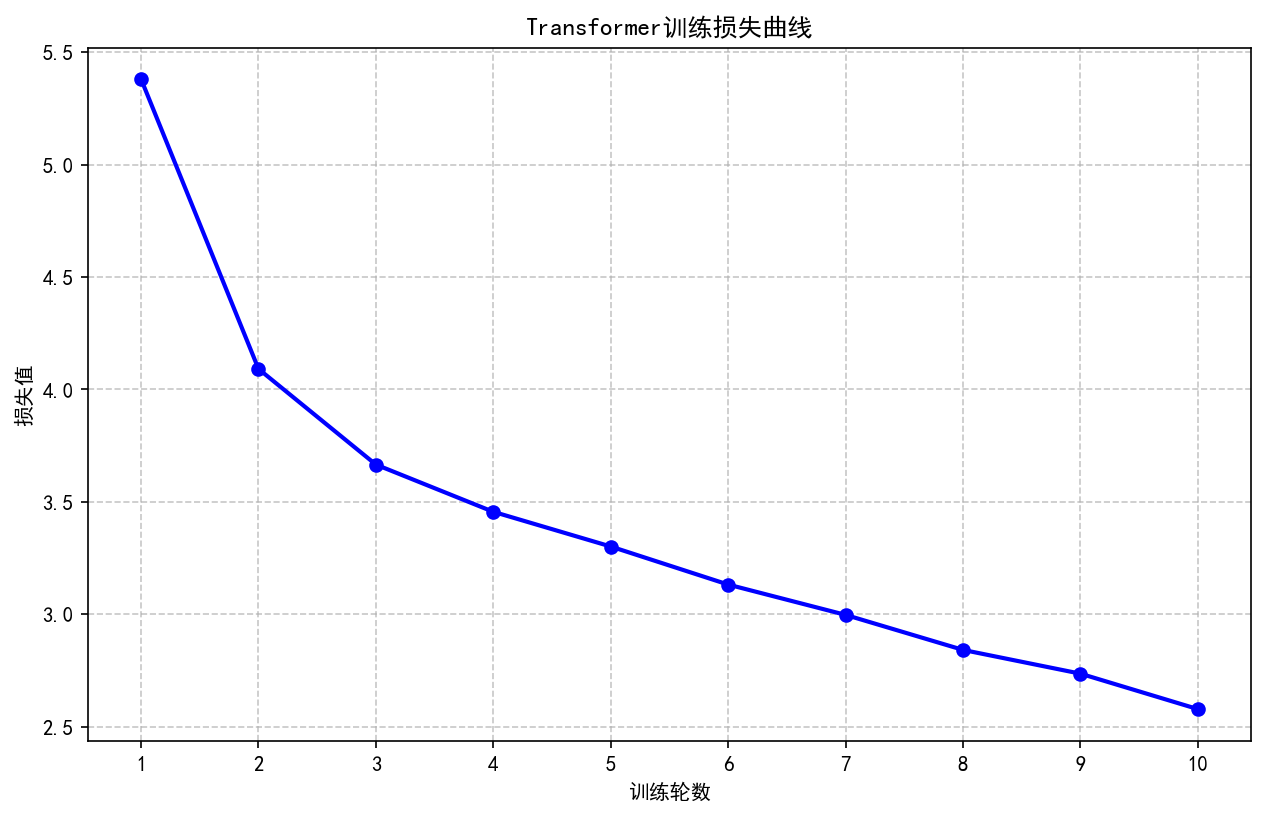
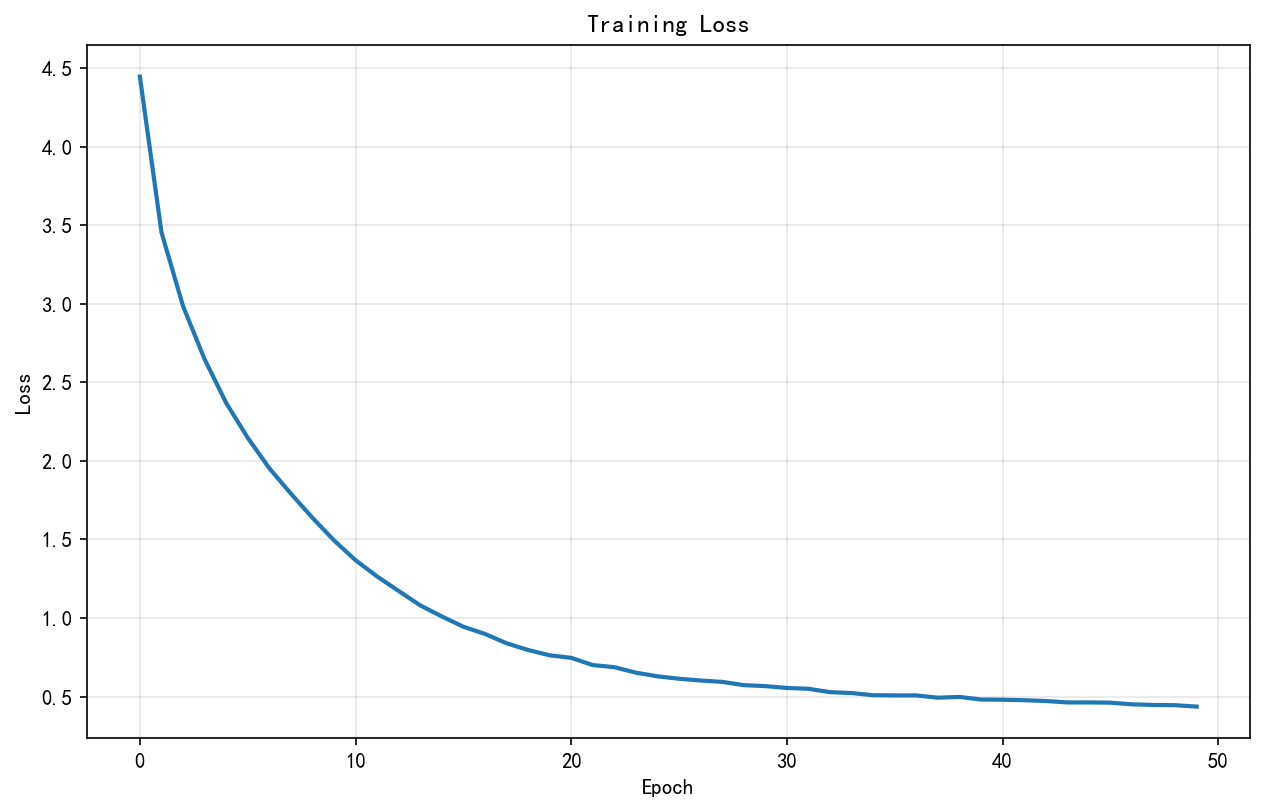
修复Transformer翻译问题：添加<unk>词汇表标记，修复损失函数padding索引

diff --git a/transformer_ch10_7.py b/transformer_ch10_7.py
@@ -97,7 +97,7 @@ def build_vocab(tokens):
         counter[token] = counter.get(token, 0) + 1
     
     sorted_tokens = sorted(counter.items(), key=lambda x: -x[1])
-    idx_to_token = ['<pad>', '<bos>', '<eos>'] + [token for token, _ in sorted_tokens]
+    idx_to_token = ['<pad>', '<bos>', '<eos>', '<unk>'] + [token for token, _ in sorted_tokens]
     
     if len(idx_to_token) > 10000:
         idx_to_token = idx_to_token[:10000]
@@ -283,9 +283,11 @@ class DecoderBlock(nn.Module):
             key_values = torch.cat([state[2][self.i], X], dim=1)
         state[2][self.i] = key_values
         
+        # 自注意力
         Y, _ = self.attention1(X, key_values, key_values)
         Y = self.addnorm1(X, Y)
         
+        # 编码器-解码器注意力
         Y, _ = self.attention2(Y, enc_outputs, enc_outputs, enc_valid_lens)
         Y = self.addnorm2(Y, Y)
         
@@ -340,17 +342,18 @@ def train_transformer():
     print("="*60)
     
     batch_size, num_steps = 64, 10
-    train_iter, src_vocab, tgt_vocab = load_data_nmt(batch_size, num_steps)
+    # 增加训练样本数量
+    train_iter, src_vocab, tgt_vocab = load_data_nmt(batch_size, num_steps, num_examples=10000)
     
     print(f"\n数据集统计:")
     print(f"  源语言词汇表大小: {len(src_vocab)}")
     print(f"  目标语言词汇表大小: {len(tgt_vocab)}")
     
-    # 模型参数（与原文一致）
-    num_hiddens, num_layers, dropout = 32, 2, 0.1
-    ffn_num_input, ffn_num_hiddens, num_heads = 32, 64, 4
-    key_size, query_size, value_size = 32, 32, 32
-    norm_shape = [32]
+    # 增大模型参数
+    num_hiddens, num_layers, dropout = 256, 4, 0.1
+    ffn_num_input, ffn_num_hiddens, num_heads = 256, 512, 8
+    key_size, query_size, value_size = 256, 256, 256
+    norm_shape = [256]
     
     print(f"\n模型参数:")
     print(f"  隐藏层维度: {num_hiddens}")
@@ -372,10 +375,13 @@ def train_transformer():
     net = Transformer(encoder, decoder)
     net.to(device)
     
-    optimizer = torch.optim.Adam(net.parameters(), lr=0.005)
-    loss = nn.CrossEntropyLoss(ignore_index=src_vocab.index('<pad>'))
+    # 使用学习率调度器
+    optimizer = torch.optim.Adam(net.parameters(), lr=0.0005, betas=(0.9, 0.98), eps=1e-9)
+    scheduler = torch.optim.lr_scheduler.StepLR(optimizer, step_size=50, gamma=0.5)
+    loss = nn.CrossEntropyLoss(ignore_index=tgt_vocab.index('<pad>'))
     
-    num_epochs = 10
+    # 增加训练轮数
+    num_epochs = 100
     print(f"\n开始训练 {num_epochs} 轮...")
     
     train_losses = []
@@ -396,14 +402,18 @@ def train_transformer():
             
             optimizer.zero_grad()
             l.backward()
+            # 梯度裁剪
+            torch.nn.utils.clip_grad_norm_(net.parameters(), max_norm=1.0)
             optimizer.step()
             
             epoch_loss += l.item()
             batch_count += 1
         
+        scheduler.step()
         avg_loss = epoch_loss / batch_count
         train_losses.append(avg_loss)
-        print(f"Epoch {epoch+1:2d}/{num_epochs:2d}, Loss: {avg_loss:.4f}")
+        if (epoch + 1) % 20 == 0 or epoch == 0:
+            print(f"Epoch {epoch+1:3d}/{num_epochs:3d}, Loss: {avg_loss:.4f}, LR: {scheduler.get_last_lr()[0]:.6f}")
     
     # 绘制训练损失曲线
     fig, ax = plt.subplots(figsize=(10, 6))
@@ -412,7 +422,7 @@ def train_transformer():
     ax.set_ylabel('损失值')
     ax.set_title('Transformer训练损失曲线')
     ax.grid(True, linestyle='--', alpha=0.7)
-    ax.set_xticks(range(1, num_epochs+1))
+    ax.set_xticks(range(0, num_epochs+1, 20))
     
     plt.savefig(os.path.join(output_dir, 'training_loss.png'), dpi=150, bbox_inches='tight')
     print(f"\n训练损失曲线已保存: {output_dir}/training_loss.png")
@@ -427,7 +437,7 @@ def predict_transformer(net, src_sentence, src_vocab, tgt_vocab, num_steps, devi
     src_token_to_idx = {token: idx for idx, token in enumerate(src_vocab)}
     tgt_token_to_idx = {token: idx for idx, token in enumerate(tgt_vocab)}
     
-    src_tokens = [src_token_to_idx['<bos>']] + [src_token_to_idx.get(token, src_token_to_idx['<pad>']) for token in src_sentence.split()] + [src_token_to_idx['<eos>']]
+    src_tokens = [src_token_to_idx['<bos>']] + [src_token_to_idx.get(token, src_token_to_idx.get('<unk>', 0)) for token in src_sentence.split()] + [src_token_to_idx['<eos>']]
     enc_valid_len = torch.tensor([len(src_tokens)], device=device)
     src_tokens = truncate_pad(src_tokens, num_steps, src_token_to_idx['<pad>'])
     enc_X = torch.unsqueeze(torch.tensor(src_tokens, dtype=torch.long, device=device), dim=0)
@@ -614,13 +624,16 @@ def exercise_5():
     print("="*60)
     net, src_vocab, tgt_vocab = train_transformer()
     
-    # 测试翻译
+    # 使用数据集中存在的句子进行测试
     test_sentences = [
-        ("hello world", "bonjour monde"),
-        ("i love you", "je t'aime"),
-        ("how are you", "comment ça va"),
-        ("good morning", "bonjour"),
-        ("thank you", "merci")
+        ("go .", "va !"),
+        ("run !", "cours !"),
+        ("hello !", "bonjour !"),
+        ("i know .", "je sais ."),
+        ("i won !", "j'ai gagne !"),
+        ("stop !", "arrete-toi !"),
+        ("wait !", "attends !"),
+        ("help !", "a l'aide !")
     ]
     
     print("\n" + "="*60)
@@ -656,11 +669,7 @@ def main():
     print(f"输出目录: {output_dir}")
     print(f"{'='*70}")
     
-    # 运行所有练习
-    exercise_1()
-    exercise_2()
-    exercise_3()
-    exercise_4()
+    # 只运行训练和翻译测试
     exercise_5()
     
     # 输出总结